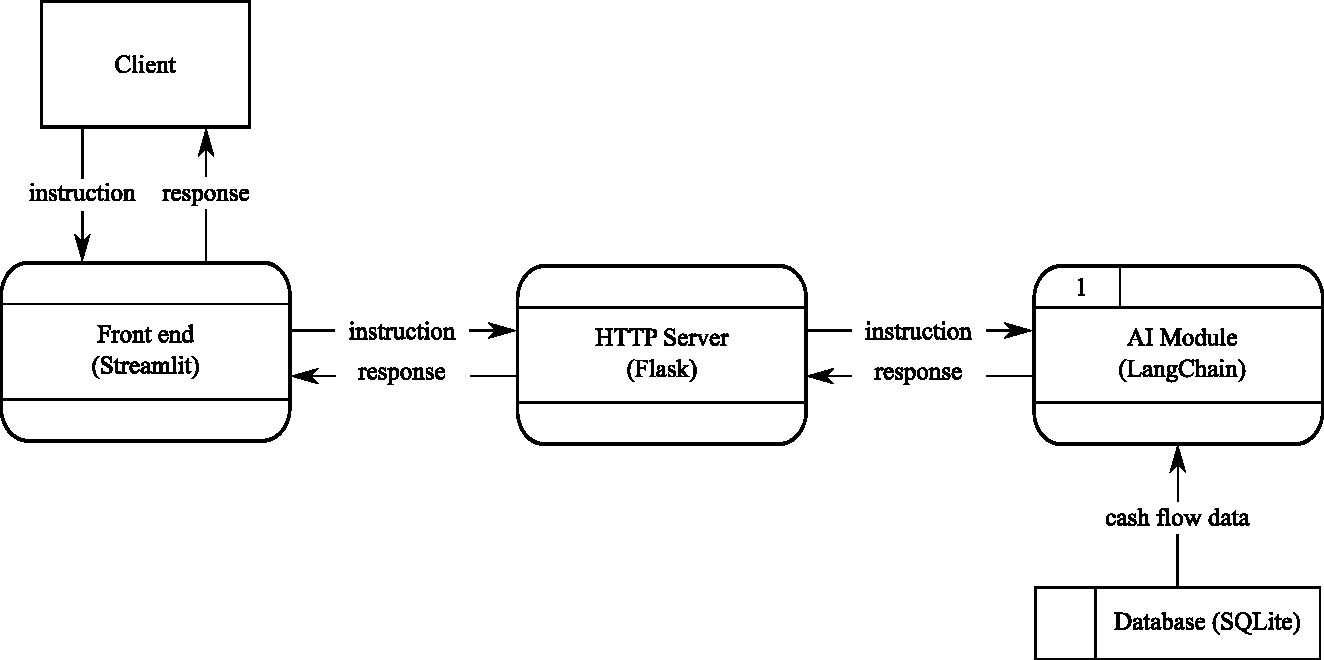
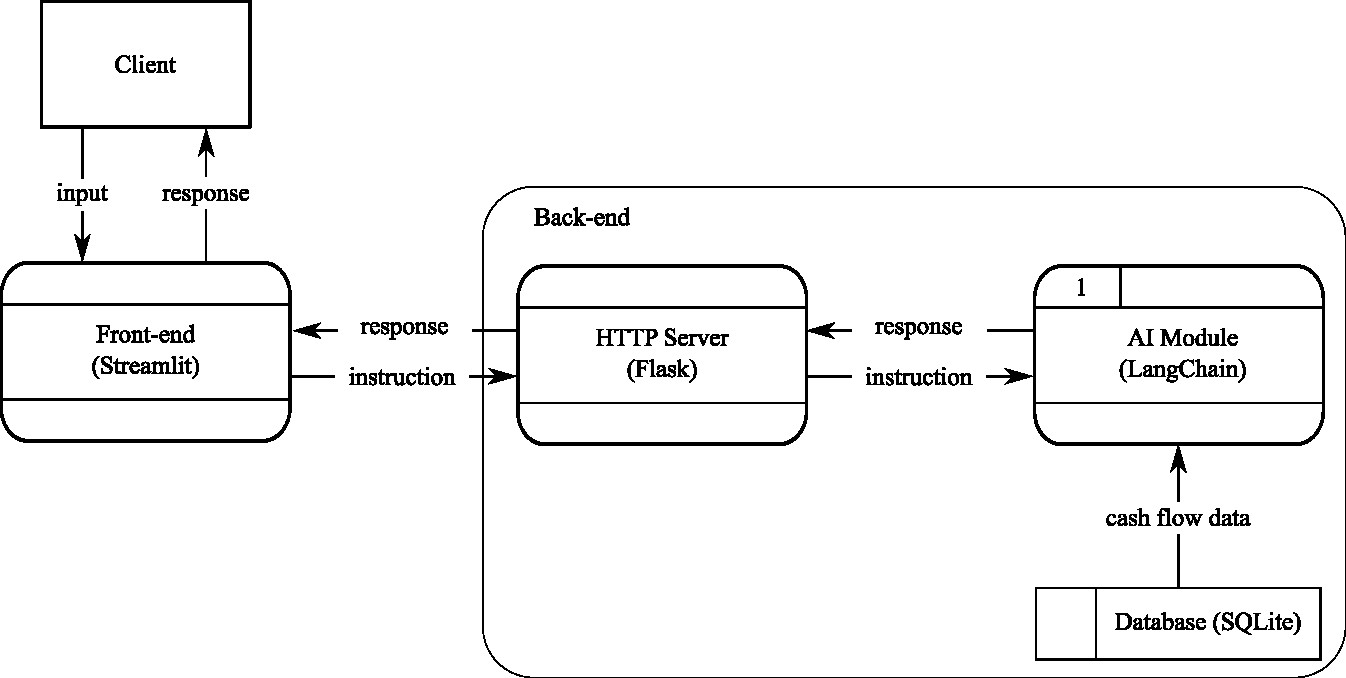
update diagram & readme

diff --git a/README.md b/README.md
@@ -1,6 +1,9 @@
 # Cash Flow Assistant
 Requirement: Building a system to provide insights and information to external users in a natural language conversation format. The context revolves around querying numerical information as we have a table T containing the cashflow data for some clients.
 
+The system can be is accessible via [this](https://cashflowaiassistant.streamlit.app/) website. 
+
+
 [For developer technical development click here](README_developer.md)
 
 ## About the data
